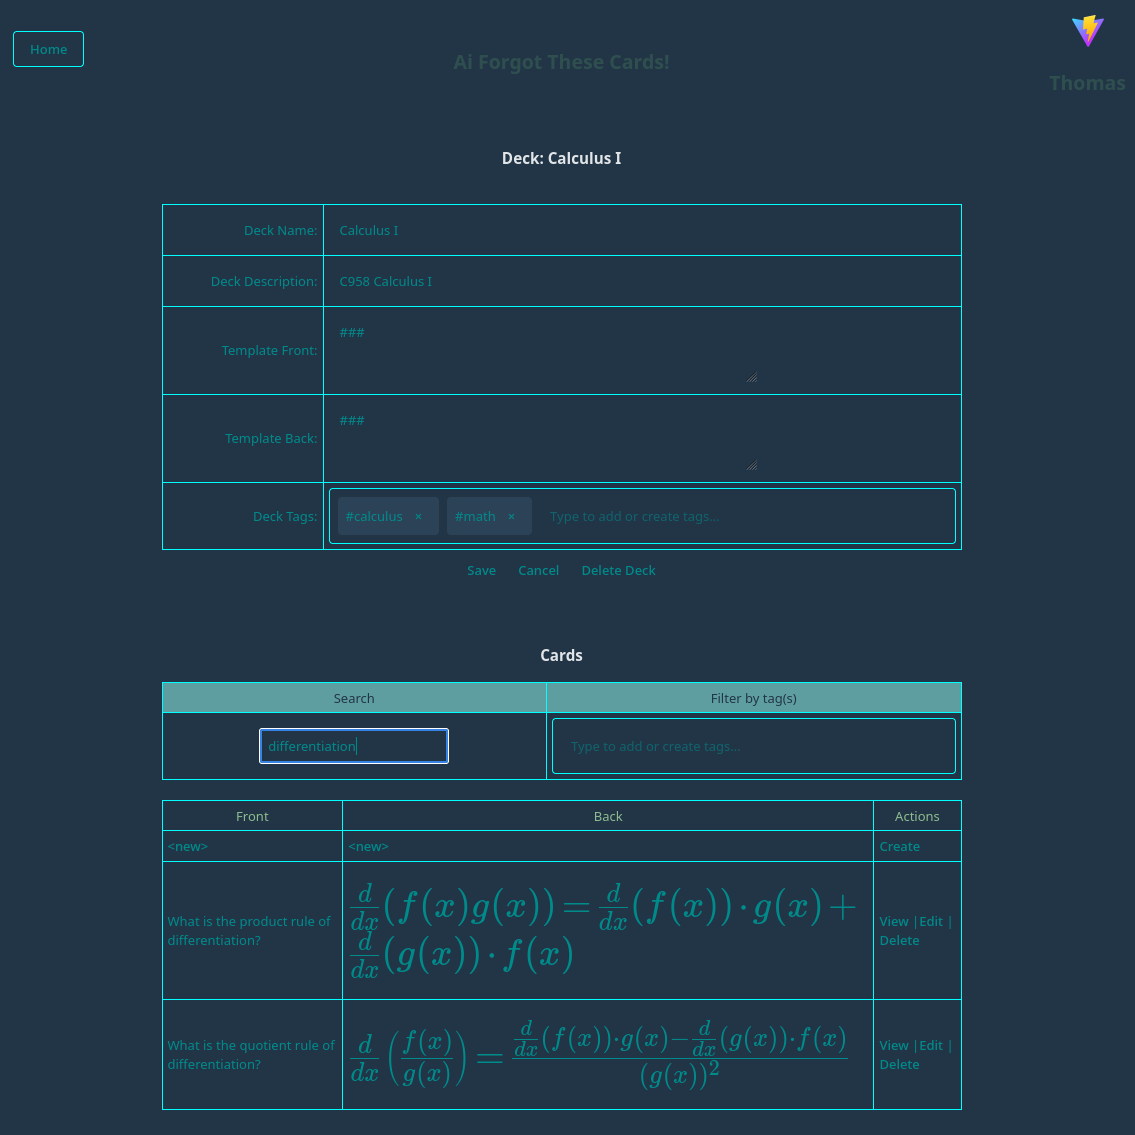
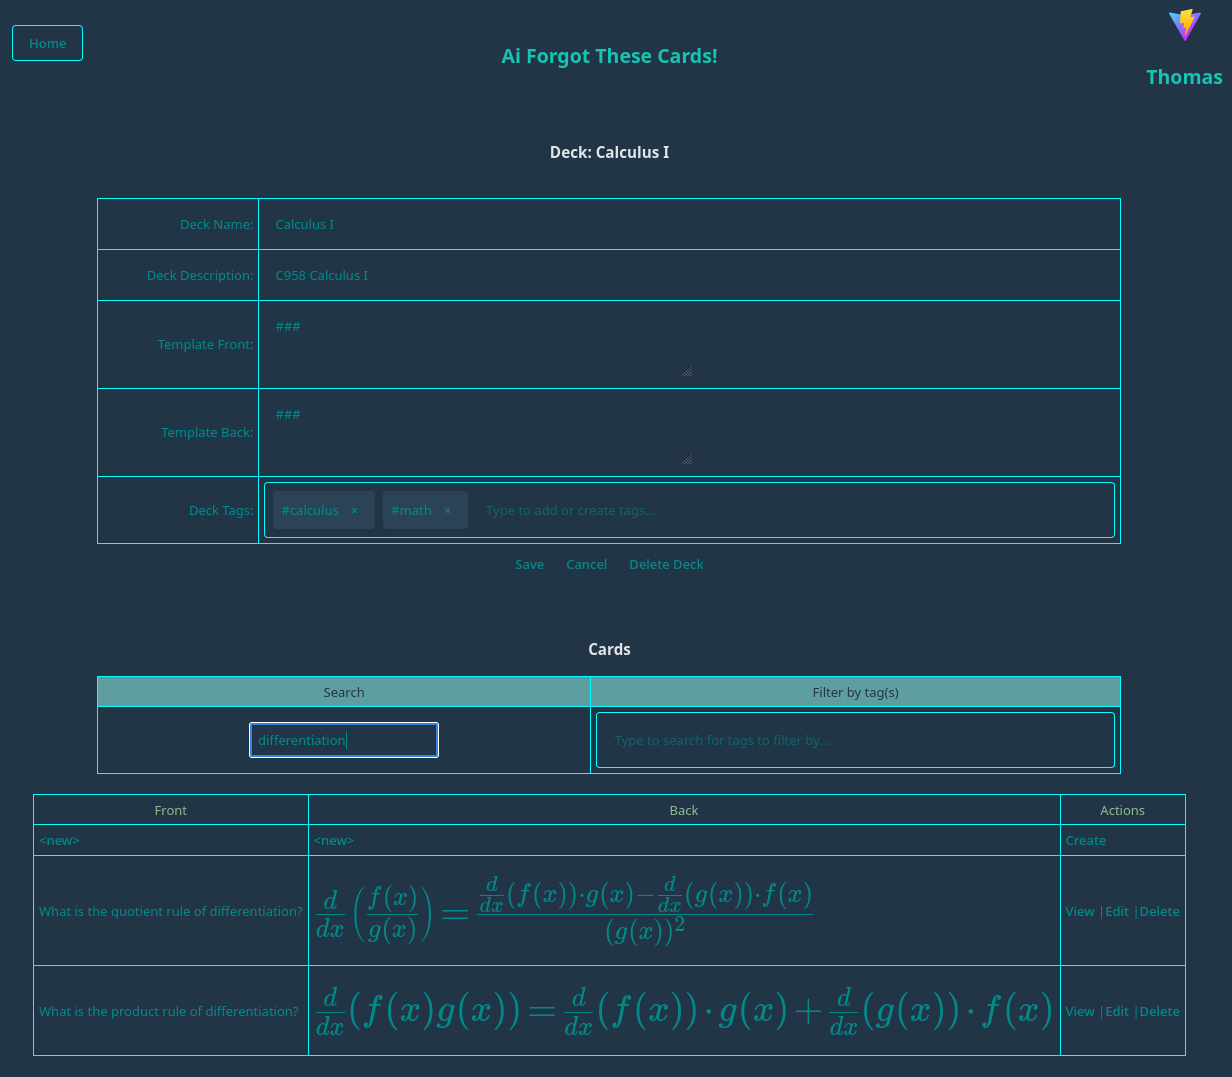
feat: enhance EditCard and TagWidget components with improved styling and placeholder text; update themes for better visual consistency, for issue #5

diff --git a/src/components/Main/Card/EditCard.tsx b/src/components/Main/Card/EditCard.tsx
@@ -263,14 +263,14 @@ const EditCard = () => {
             {card.id === 0 ? <h2>Create Card</h2> : <h2>Edit Card</h2>}
             <form onSubmit={handleSubmit}>
 
-                <table className={"table"}>
+                <table className={"edit-card-table"}>
                     <tbody>
                     <tr>
                         <td className={"edit-td-header"}>
-                            <table className={"table"}>
+                            <table className={"edit-card-table"}>
                                 <tbody>
                                 <tr>
-                                    <td className={"edit-td-header-top"}>Card Front (Markdown supported):</td>
+                                    <td className={"edit-td-header-top"}>Front:</td>
                                     <td className={"edit-td-data"}><textarea name={"front"}
                                                                              onChange={handleChange}
                                                                              className={"card"}
@@ -278,7 +278,7 @@ const EditCard = () => {
                                                                              cols={50}/></td>
                                 </tr>
                                 <tr>
-                                    <td className={"edit-td-header-top"}>Card Back (Markdown supported):</td>
+                                    <td className={"edit-td-header-top"}>Back:</td>
                                     <td className={"edit-td-data"}><textarea name={"back"}
                                                                              onChange={handleChange}
                                                                              className={"card"}
@@ -286,7 +286,7 @@ const EditCard = () => {
                                                                              cols={50}/></td>
                                 </tr>
                                 <tr>
-                                    <td className={"edit-td-header"}>Deck Tags:</td>
+                                    <td className={"edit-td-header"}>Card Tags:</td>
                                     <td className={"edit-td-data"}>
                                         <TagWidget onTagsChange={setSelectedCardTags} initialTags={card?.tags}/>
                                     </td>
@@ -298,8 +298,7 @@ const EditCard = () => {
                             <table className={"ai-table"}>
                                 <thead>
                                 <tr>
-                                    <td colSpan={2} className={"table-column-header center"}><h3>AI, help
-                                        please!</h3></td>
+                                    <td colSpan={2} className={"table-column-header center"}><h3>AI, help please!</h3></td>
                                 </tr>
                                 </thead>
                                 <tbody>

diff --git a/src/scss/themes.scss b/src/scss/themes.scss
@@ -26,7 +26,7 @@ $ai-edit-data-bg: #f0f8ff;
 
 // Text Colors
 $text-color: #333333;
-$heading-color: #495057;
+$heading-color: #10aec3;
 $table-header-text: #495057;
 $table-column-header-text: #495057;
 $link-color: #0066cc;
@@ -87,7 +87,7 @@ $quiz-card-hover-bg: #f8f9fa;
 
   // Text Colors
   $text-color: darkcyan !global;
-  $heading-color: darkslategray !global;
+  $heading-color: rgb(21, 196, 178) !global;
   $table-header-text: #213547 !global;
   $table-column-header-text: darkseagreen !global;
   $link-color: darkcyan !global;
@@ -124,6 +124,7 @@ $quiz-card-hover-bg: #f8f9fa;
 
 #root {
   max-width: 1280px;
+  min-width: 1024px;
   margin: 0 auto;
   padding: 2rem;
   text-align: center;
@@ -163,7 +164,11 @@ h2 {
 
 .table {
   margin: 0 auto;
-  width: 800px;
+  width: 1024px;
+}
+
+.edit-card-table {
+  margin: 0 auto;
 }
 
 .table-header {
@@ -228,6 +233,7 @@ input, textarea, select, option, button {
   background-color: $edit-data-bg;
   color: $edit-data-text;
   text-align: left;
+  text-wrap: nowrap;
 }
 
 .edit-td-header-ai {
@@ -309,7 +315,7 @@ input, textarea, select, option, button {
   padding: 2rem;
   border-radius: 8px;
   border: 1px solid $modal-border-color;
-  max-width: 800px;
+  max-width: 1024px;
   width: 100%;
   position: relative;
 }

diff --git a/src/components/Main/Shared/TagWidget.tsx b/src/components/Main/Shared/TagWidget.tsx
@@ -7,9 +7,10 @@ interface TagWidgetProps {
     onTagsChange?: Dispatch<SetStateAction<Tag[]>>;
     initialTags?: Tag[]; // Tags already associated with the item
     allowCreation?: boolean; // Flag to enable tag creation
+    placeholderText?: string; // Placeholder text for the widget
 }
 
-const TagWidget = ({ onTagsChange, initialTags, allowCreation = true }: TagWidgetProps) => {
+const TagWidget = ({ onTagsChange, initialTags, allowCreation = true, placeholderText = 'Type to add or create tags...' }: TagWidgetProps) => {
     const [selectedTags, setSelectedTags] = useState<Tag[]>(initialTags || []);
     const [input, setInput] = useState('');
     const [suggestions, setSuggestions] = useState<Tag[]>([]);
@@ -127,7 +128,7 @@ const TagWidget = ({ onTagsChange, initialTags, allowCreation = true }: TagWidge
                     value={input}
                     onChange={handleInputChange}
                     onKeyDown={handleKeyDown}
-                    placeholder="Type to add or create tags..."
+                    placeholder={placeholderText}
                     className="tag-input"
                 />
             </div>

diff --git a/src/components/Main/Shared/SearchAndFilterWidget.tsx b/src/components/Main/Shared/SearchAndFilterWidget.tsx
@@ -29,7 +29,7 @@ const SearchAndFilterWidget = (props: SearchAndFilterProps) => {
                     />
                 </td>
                 <td>
-                    <TagWidget onTagsChange={setSelectedTags} initialTags={[]}/>
+                    <TagWidget onTagsChange={setSelectedTags} initialTags={[]} placeholderText="Type to search for tags to filter by..."/>
                 </td>
             </tr>
             </tbody>
